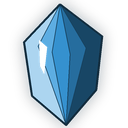
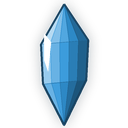
Recut the shard crystals; add Obsidian and Lumen
The first pass was five broad facets on a stubby lozenge. These are cut as a
marquise instead: a narrow bipyramid with a girdle round the middle, giving
each stone fifteen facets in three rows, with the girdle drawn so the belt
reads as a band rather than two coincidental rows of seams. Flat fills and a
heavy contour keep it cartoonish rather than photographic.

Two new types: Obsidian at x9 and Lumen at x25, the two rarest. Facet shading
had to change for them - lightness now moves by an offset rather than a
multiplier, because multiplying a near-zero lightness leaves a black stone as
an unreadable silhouette, and a white one blown out.

Prism is rebuilt. Full-saturation hues fought each other and the base colour
ringed the whole stone in magenta, so the spectrum is desaturated and
anything iridescent takes a neutral contour and bloom.

The glint moved off the centre of the stone, where it read as a grey sticker,
onto the lit upper-left facet, tapered.

diff --git a/tools/make_shards.py b/tools/make_shards.py
@@ -4,12 +4,20 @@
 
 Writes 128x128 transparent PNGs to assets/shards/, one per shard type in
 config.SHARD_TYPES, ready to upload to a Discord server as custom emoji.
-Discord's limit is 256KB per emoji; these come out a few KB each.
+Discord's limit is 256KB per emoji; these come out well under it.
 
-The crystal is one silhouette cut into five facets. A light source up and to
-the left makes the left faces bright and the right faces dark, which is what
-sells it as a solid object rather than a coloured blob. Everything is drawn
-at 4x and scaled down, because Pillow's polygon fill has no antialiasing.
+The cut is a marquise: a narrow bipyramid with a girdle round the middle, so
+each stone is a row of upper triangles, a band of belt facets, and a row of
+lower triangles - fifteen facets rather than five. That is what reads as a
+faceted stone instead of a shaded lozenge, while flat fills and a heavy
+contour keep it cartoonish rather than photographic.
+
+Lighting is one source up and to the left. Brightness falls off across the
+width, and the upper row catches more than the belt, which catches more than
+the lower row.
+
+Everything is drawn at 4x and scaled down, because Pillow's polygon fill has
+no antialiasing.
 
 Needs Pillow, which the bot itself does not:  pip install Pillow
 """
@@ -28,53 +36,54 @@ OUT_DIR = os.path.join(
     os.path.dirname(os.path.dirname(os.path.abspath(__file__))), "assets", "shards"
 )
 
-# Crystal outline in a 128x128 box: a tall bipyramid, pointed top and bottom,
-# slightly off-centre so it reads as hand cut rather than a vector shape.
-T = (60, 4)      # top point
-UL = (24, 42)    # left shoulder
-UR = (102, 36)   # right shoulder
-L = (32, 96)     # left corner
-R = (96, 90)     # right corner
-B = (66, 125)    # bottom point
+# Outline of the stone in a 128x128 box. Narrow: a slim crystal looks cut, a
+# wide one looks like a pebble. Very slightly asymmetric so it does not read
+# as a machine-perfect vector shape.
+T = (64, 4)       # top point
+B = (64, 125)     # bottom point
+UL = (41, 44)     # left end of the upper girdle
+UR = (88, 40)     # right end of the upper girdle
+LL = (43, 84)     # left end of the lower girdle
+LR = (86, 80)     # right end of the lower girdle
 
-SILHOUETTE = [T, UR, R, B, L, UL]
+SILHOUETTE = [T, UR, LR, B, LL, UL]
 
-# Internal ridges all run from the top point down to the bottom point, which
-# is what gives a cut gem its long vertical facets. Each is the waist of one
-# ridge line; the facets between them are the planes of the crystal.
-RIDGES = [(38, 46), (52, 52), (70, 54), (86, 48)]
+COLUMNS = 5  # facets across the stone
 
-# Left to right, each facet with how much to lighten (>1) or darken (<1) the
-# base colour. The light sits up and to the left.
-FACETS = [
-    ([T, UL, L, B, RIDGES[0]], 1.52),
-    ([T, RIDGES[0], B, RIDGES[1]], 1.18),
-    ([T, RIDGES[1], B, RIDGES[2]], 0.96),
-    ([T, RIDGES[2], B, RIDGES[3]], 0.72),
-    ([T, RIDGES[3], B, R, UR], 0.46),
-]
+# Brightness across the width, left (lit) to right (shadowed), and per row.
+ACROSS = (1.50, 1.26, 1.04, 0.80, 0.58)
+ROW_UPPER, ROW_BELT, ROW_LOWER = 1.10, 1.00, 0.84
 
-# A narrow sliver down the second facet, so the surface looks glassy rather
-# than matte. Kept thin - a fat white blob reads as a sticker.
-HIGHLIGHT = [(39, 40), (47, 47), (44, 74), (40, 66)]
+# Where the glint sits, as a fraction of the icon. Narrow and tapered: a fat
+# white shape reads as a sticker rather than a reflection.
+GLINT = [(0.345, 0.26), (0.40, 0.33), (0.375, 0.56), (0.345, 0.47)]
+
+
+def lerp(a, b, t):
+    return (a[0] + (b[0] - a[0]) * t, a[1] + (b[1] - a[1]) * t)
 
 
 def shade(rgb, factor):
-    """Lighten or darken while keeping the hue, so it stays the same gem."""
+    """Lighten or darken a facet, keeping its hue.
+
+    Lightness moves by an offset rather than a multiplier, so the black and
+    white stones still show their facets - multiplying a near-zero lightness
+    leaves an unreadable silhouette.
+    """
     r, g, b = (c / 255 for c in rgb)
     h, l, s = colorsys.rgb_to_hls(r, g, b)
-    l = max(0.05, min(0.97, l * factor))
-    # Deep shadows drift slightly desaturated, highlights slightly less so.
-    s = max(0.0, min(1.0, s * (0.88 if factor < 1 else 1.0)))
-    r, g, b = colorsys.hls_to_rgb(h, l, s)
+    l = max(0.02, min(0.99, l + (factor - 1.0) * 0.46))
+    if factor < 1:
+        s *= 0.9  # shadows drift a touch grey
+    r, g, b = colorsys.hls_to_rgb(h, l, max(0.0, min(1.0, s)))
     return (round(r * 255), round(g * 255), round(b * 255))
 
 
-def hue_shift(rgb, degrees):
+def with_hue(rgb, hue):
+    """Same lightness and saturation, different hue. Used for Prism."""
     r, g, b = (c / 255 for c in rgb)
-    h, l, s = colorsys.rgb_to_hls(r, g, b)
-    h = (h + degrees / 360.0) % 1.0
-    r, g, b = colorsys.hls_to_rgb(h, l, s)
+    _, l, s = colorsys.rgb_to_hls(r, g, b)
+    r, g, b = colorsys.hls_to_rgb(hue % 1.0, l, s)
     return (round(r * 255), round(g * 255), round(b * 255))
 
 
@@ -82,39 +91,81 @@ def scaled(points):
     return [(x * SCALE, y * SCALE) for x, y in points]
 
 
+def facets():
+    """Every facet as (polygon, brightness factor, column index)."""
+    upper = [lerp(UL, UR, i / COLUMNS) for i in range(COLUMNS + 1)]
+    lower = [lerp(LL, LR, i / COLUMNS) for i in range(COLUMNS + 1)]
+    out = []
+    for i in range(COLUMNS):
+        across = ACROSS[min(i, len(ACROSS) - 1)]
+        out.append(([T, upper[i], upper[i + 1]], across * ROW_UPPER, i))
+        out.append(
+            ([upper[i], upper[i + 1], lower[i + 1], lower[i]], across * ROW_BELT, i)
+        )
+        out.append(([B, lower[i], lower[i + 1]], across * ROW_LOWER, i))
+    return out
+
+
+def facet_colour(base_rgb, column, rainbow):
+    if not rainbow:
+        return base_rgb
+    # A spectrum in order across the stone, so it reads as a rainbow rather
+    # than as random colours sitting next to each other.
+    tinted = with_hue(base_rgb, 0.02 + 0.76 * column / (COLUMNS - 1))
+    r, g, b = (c / 255 for c in tinted)
+    h, l, sat = colorsys.rgb_to_hls(r, g, b)
+    r, g, b = colorsys.hls_to_rgb(h, min(0.95, l * 1.06), sat * 0.72)
+    return (round(r * 255), round(g * 255), round(b * 255))
+
+
 def draw_crystal(base_rgb, rainbow=False) -> Image.Image:
     canvas = SIZE * SCALE
     image = Image.new("RGBA", (canvas, canvas), (0, 0, 0, 0))
-    draw = ImageDraw.Draw(image)
 
-    # Soft glow under the crystal so it does not look pasted on.
+    # A rainbow stone has no single colour, so its contour and bloom take a
+    # neutral - otherwise the base hue rings the whole thing in magenta.
+    frame_rgb = (126, 126, 138) if rainbow else base_rgb
+
+    # A soft bloom behind the stone so it sits on the page rather than on top
+    # of it. Subtle: Discord renders emoji small.
     glow = Image.new("RGBA", (canvas, canvas), (0, 0, 0, 0))
     ImageDraw.Draw(glow).polygon(
-        scaled(SILHOUETTE), fill=(*shade(base_rgb, 1.25), 110)
+        scaled(SILHOUETTE), fill=(*shade(frame_rgb, 1.3), 95)
     )
-    glow = glow.filter(ImageFilter.GaussianBlur(radius=7 * SCALE))
-    image.alpha_composite(glow)
+    image.alpha_composite(glow.filter(ImageFilter.GaussianBlur(radius=6 * SCALE)))
 
-    for index, (points, factor) in enumerate(FACETS):
-        colour = base_rgb
-        if rainbow:
-            # Prism: each facet is a different hue, so it reads as spectrum
-            # rather than as one muddy colour.
-            colour = hue_shift(base_rgb, index * 58)
-        draw.polygon(scaled(points), fill=shade(colour, factor))
+    draw = ImageDraw.Draw(image)
+    all_facets = facets()
 
-    # Facet edges, a shade darker than their face, then the outer contour.
-    edge = shade(base_rgb, 0.42)
-    for points, _ in FACETS:
-        draw.line(scaled(points + [points[0]]), fill=edge, width=2)
+    for points, factor, column in all_facets:
+        draw.polygon(
+            scaled(points), fill=shade(facet_colour(base_rgb, column, rainbow), factor)
+        )
+
+    # Facet seams: thin, and only a little darker than the faces they divide,
+    # otherwise the stone turns into a wireframe.
+    for points, factor, column in all_facets:
+        draw.line(
+            scaled(points + [points[0]]),
+            fill=shade(facet_colour(base_rgb, column, rainbow), factor * 0.82),
+            width=max(2, SCALE // 2),
+        )
+
+    # The girdle: the belt edges read as a band round the middle rather than
+    # as two coincidental rows of seams.
+    for edge in ([UL, UR], [LL, LR]):
+        draw.line(scaled(edge), fill=shade(frame_rgb, 0.62), width=max(2, SCALE // 2))
+
+    # Outer contour, dark and solid: the cartoon part of the look.
     draw.line(
         scaled(SILHOUETTE + [SILHOUETTE[0]]),
-        fill=shade(base_rgb, 0.26),
+        fill=shade(frame_rgb, 0.34),
         width=2 * SCALE,
         joint="curve",
     )
 
-    draw.polygon(scaled(HIGHLIGHT), fill=(255, 255, 255, 120))
+    glint = [(SIZE * x, SIZE * y) for x, y in GLINT]
+    draw.polygon(scaled(glint), fill=(255, 255, 255, 165))
 
     return image.resize((SIZE, SIZE), Image.LANCZOS)
 
@@ -129,8 +180,9 @@ def main():
         image.save(path, "PNG", optimize=True)
         written.append((key, name, path, os.path.getsize(path)))
 
-    # A contact sheet, so you can see them all at once before uploading.
-    sheet = Image.new("RGBA", (SIZE * len(written), SIZE), (0, 0, 0, 0))
+    # Contact sheet on Discord's own dark grey, so the white and the black
+    # stone are both visible - on transparency one of them always vanishes.
+    sheet = Image.new("RGBA", (SIZE * len(written), SIZE), (54, 57, 63, 255))
     for index, (key, *_rest) in enumerate(written):
         sheet.alpha_composite(
             Image.open(os.path.join(OUT_DIR, f"{key}.png")), (index * SIZE, 0)

diff --git a/config.py b/config.py
@@ -56,18 +56,20 @@ CLAIMED_COLOUR = 0x43B581
 #   1. python tools/make_shards.py          -> writes assets/shards/*.png
 #   2. Discord: Server Settings -> Emoji -> Upload Emoji, one per file.
 #      Name them to match the keys below: dust, verdite, aurum, ember,
-#      azure, prism.
+#      azure, obsidian, prism, lumen.
 #   3. Type \:dust: in a channel, send it, then copy what Discord expands it
 #      to - "<:dust:1234567890123>" - and paste that in place of the Unicode
 #      icon below.
 # The bot needs Use External Emoji in any server where it posts them.
 SHARD_TYPES = [
-    ("dust",    "Karuda Dust", "\U0001f7e3",  1.0, 50, 0x9B8AFB),
-    ("verdite", "Verdite",     "\U0001f7e2",  1.6, 22, 0x43B581),
-    ("aurum",   "Aurum",       "\U0001f7e1",  2.4, 14, 0xF1C40F),
-    ("ember",   "Ember",       "\U0001f7e0",  3.6,  8, 0xE67E22),
-    ("azure",   "Azure",       "\U0001f535",  5.5,  5, 0x3498DB),
-    ("prism",   "Prism",       "\U0001f308", 12.0,  1, 0xFF4D6D),
+    ("dust",     "Karuda Dust", "\U0001f7e3",  1.0, 500, 0x9B8AFB),
+    ("verdite",  "Verdite",     "\U0001f7e2",  1.6, 215, 0x43B581),
+    ("aurum",    "Aurum",       "\U0001f7e1",  2.4, 135, 0xF1C40F),
+    ("ember",    "Ember",       "\U0001f7e0",  3.6,  80, 0xE67E22),
+    ("azure",    "Azure",       "\U0001f535",  5.5,  45, 0x3498DB),
+    ("obsidian", "Obsidian",    "⚫",      9.0,  15, 0x2E2E38),
+    ("prism",    "Prism",       "\U0001f308", 14.0,   8, 0xFF4D6D),
+    ("lumen",    "Lumen",       "⚪",     25.0,   2, 0xEDEFF5),
 ]
 
 SHARDS_BY_KEY = {key: (key, name, icon, mult, weight, colour)

diff --git a/smoke_test.py b/smoke_test.py
@@ -71,7 +71,7 @@ async def main():
     import config, utils
 
     check("rarity tiers are gone", not hasattr(config, "RARITY_TIERS"))
-    check("six shard types", len(config.SHARD_TYPES) == 6,
+    check("eight shard types", len(config.SHARD_TYPES) == 8,
           str(len(config.SHARD_TYPES)))
     check("shard keys unique",
           len({s[0] for s in config.SHARD_TYPES}) == len(config.SHARD_TYPES))

diff --git a/README.md b/README.md
@@ -173,17 +173,19 @@ Karuda button instead of a Claim button; grabbing pays out that character's
 value scaled by the server's `karuda_rate`, with a ±20% jitter, and 60% if the
 character is not yours. Gated by `karuda_interval_minutes`.
 
-**Shards.** `$daily` pulls one of six shard types, and which one you get
+**Shards.** `$daily` pulls one of eight shard types, and which one you get
 decides the payout:
 
 | Shard | Payout | Chance |
 |---|---|---|
-| 🟣 Karuda Dust | ×1 | 50% |
-| 🟢 Verdite | ×1.6 | 22% |
-| 🟡 Aurum | ×2.4 | 14% |
-| 🟠 Ember | ×3.6 | 8% |
-| 🔵 Azure | ×5.5 | 5% |
-| 🌈 Prism | ×12 | 1% |
+| Karuda Dust | ×1 | 50% |
+| Verdite | ×1.6 | 21.5% |
+| Aurum | ×2.4 | 13.5% |
+| Ember | ×3.6 | 8% |
+| Azure | ×5.5 | 4.5% |
+| Obsidian | ×9 | 1.5% |
+| Prism | ×14 | 0.8% |
+| Lumen | ×25 | 0.2% |
 
 One balance, so shards are about the moment of the pull rather than six
 separate wallets. Every type you have pulled is tracked and shown on `$k`.
